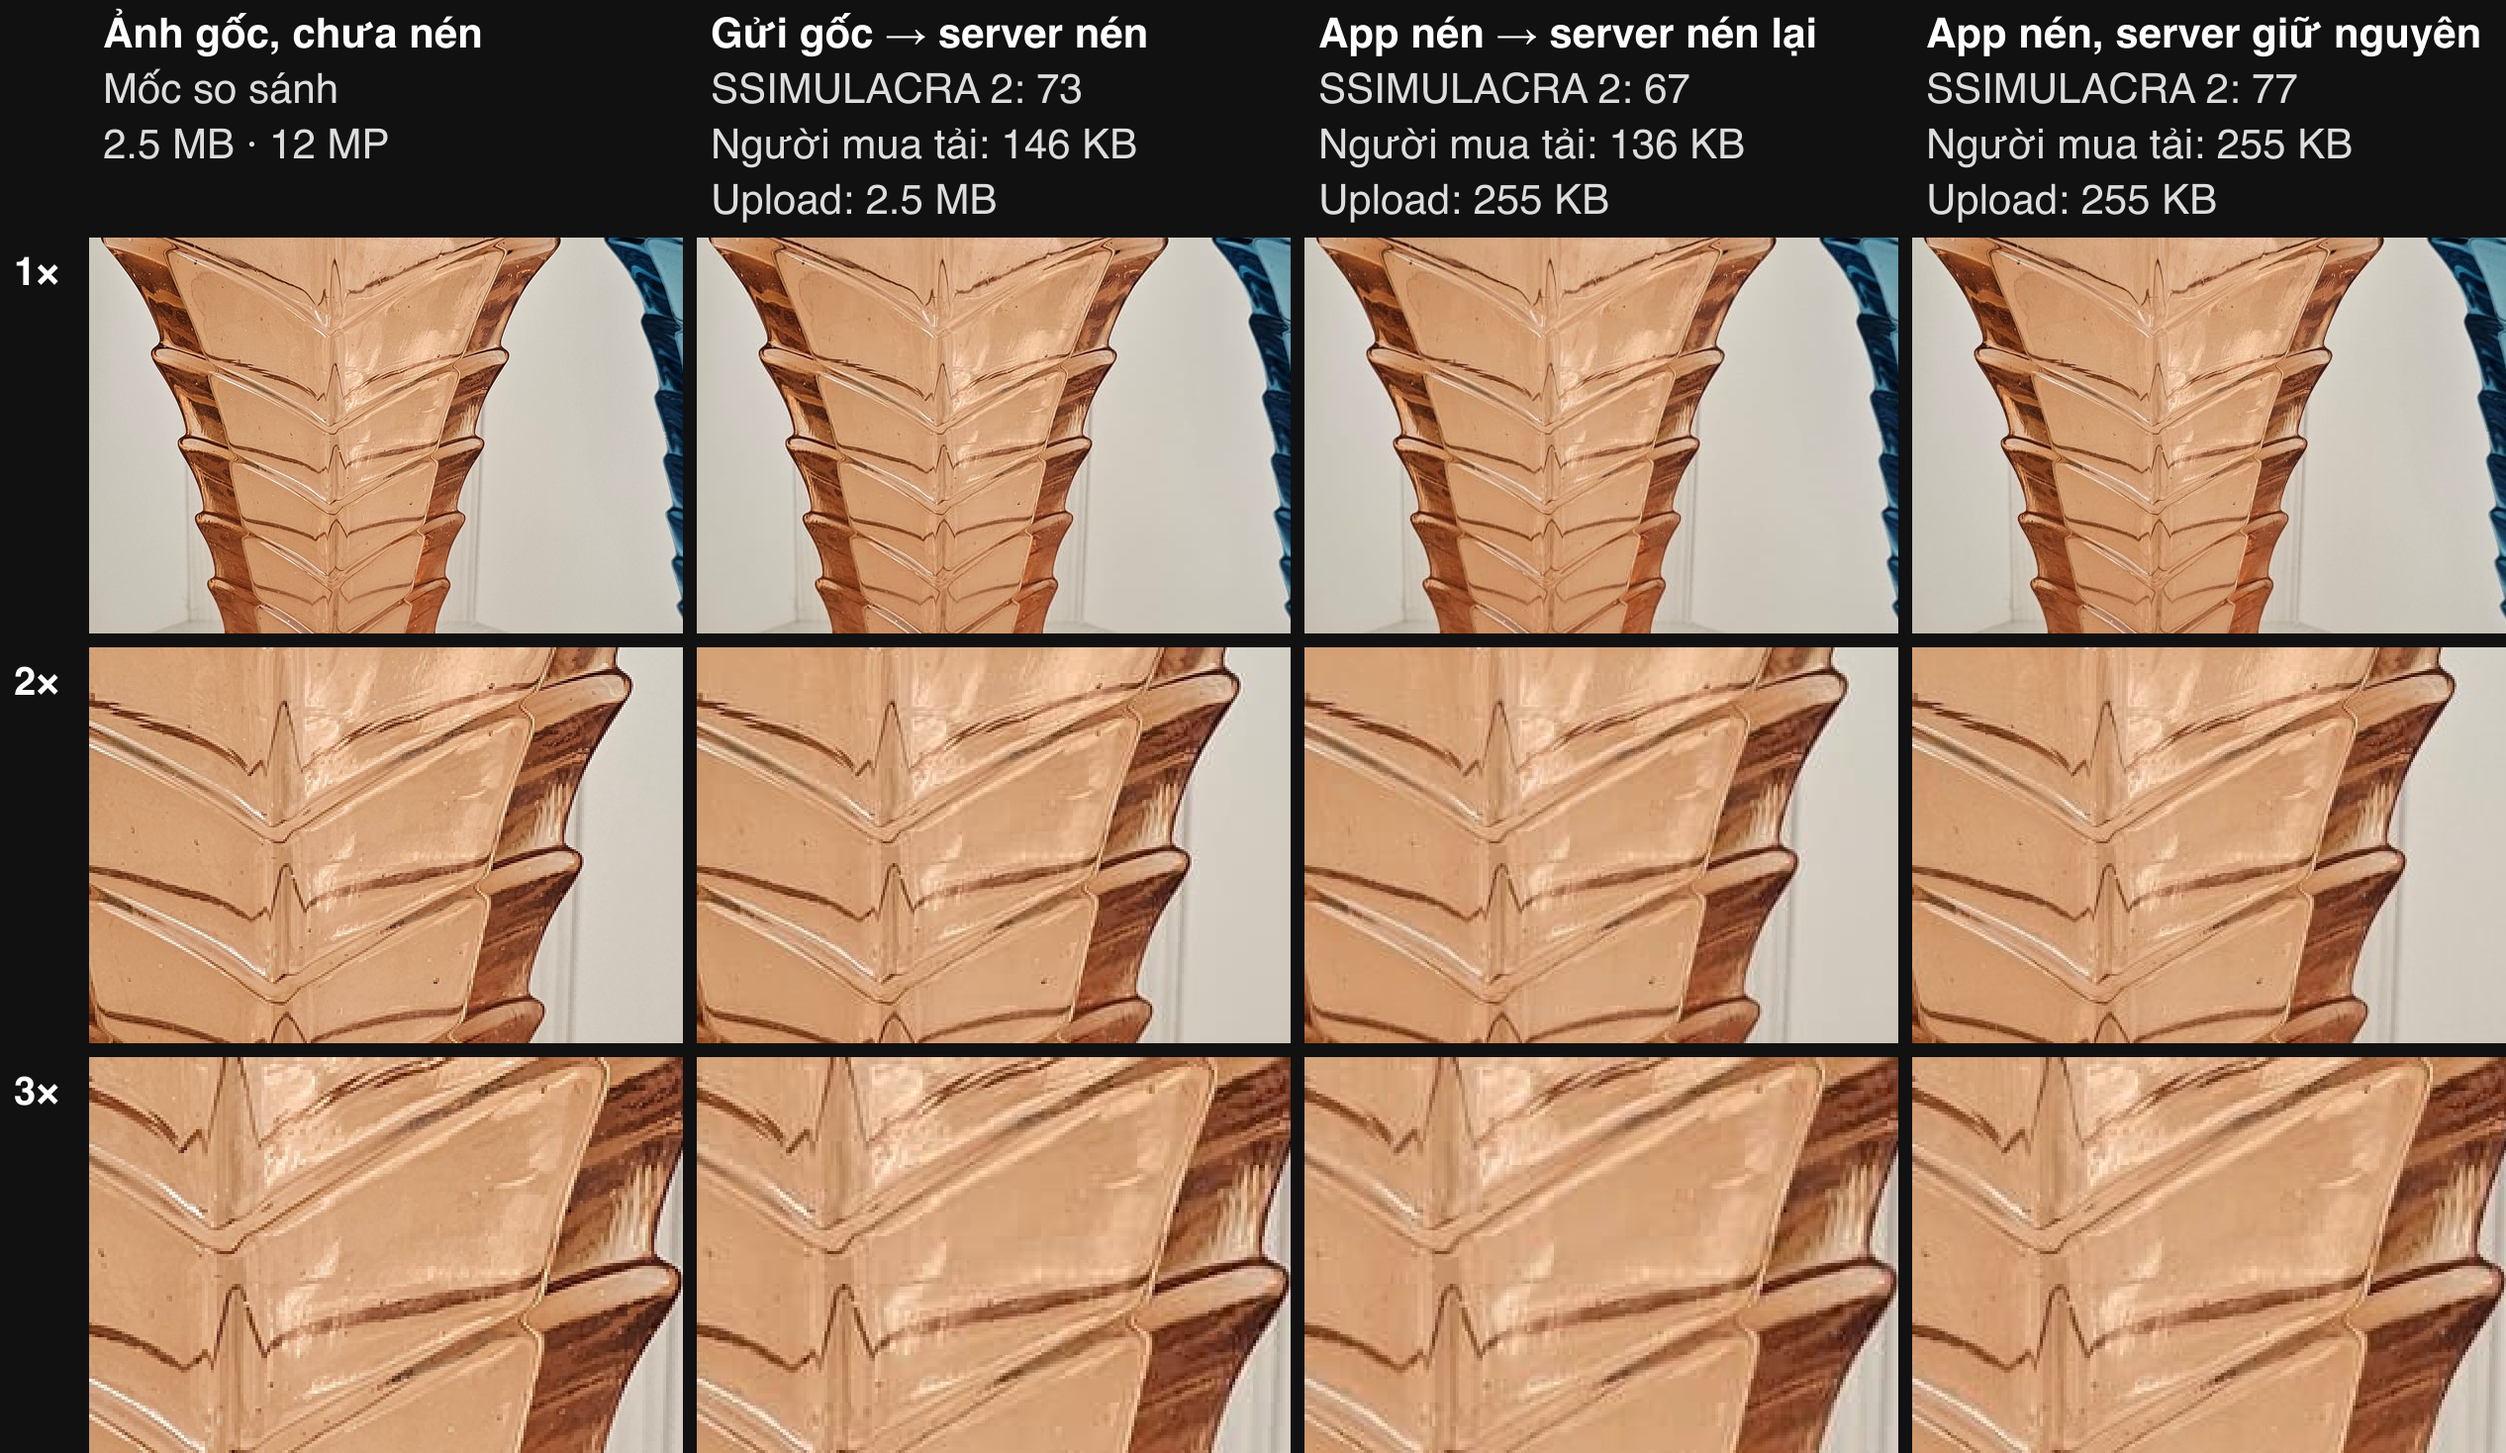
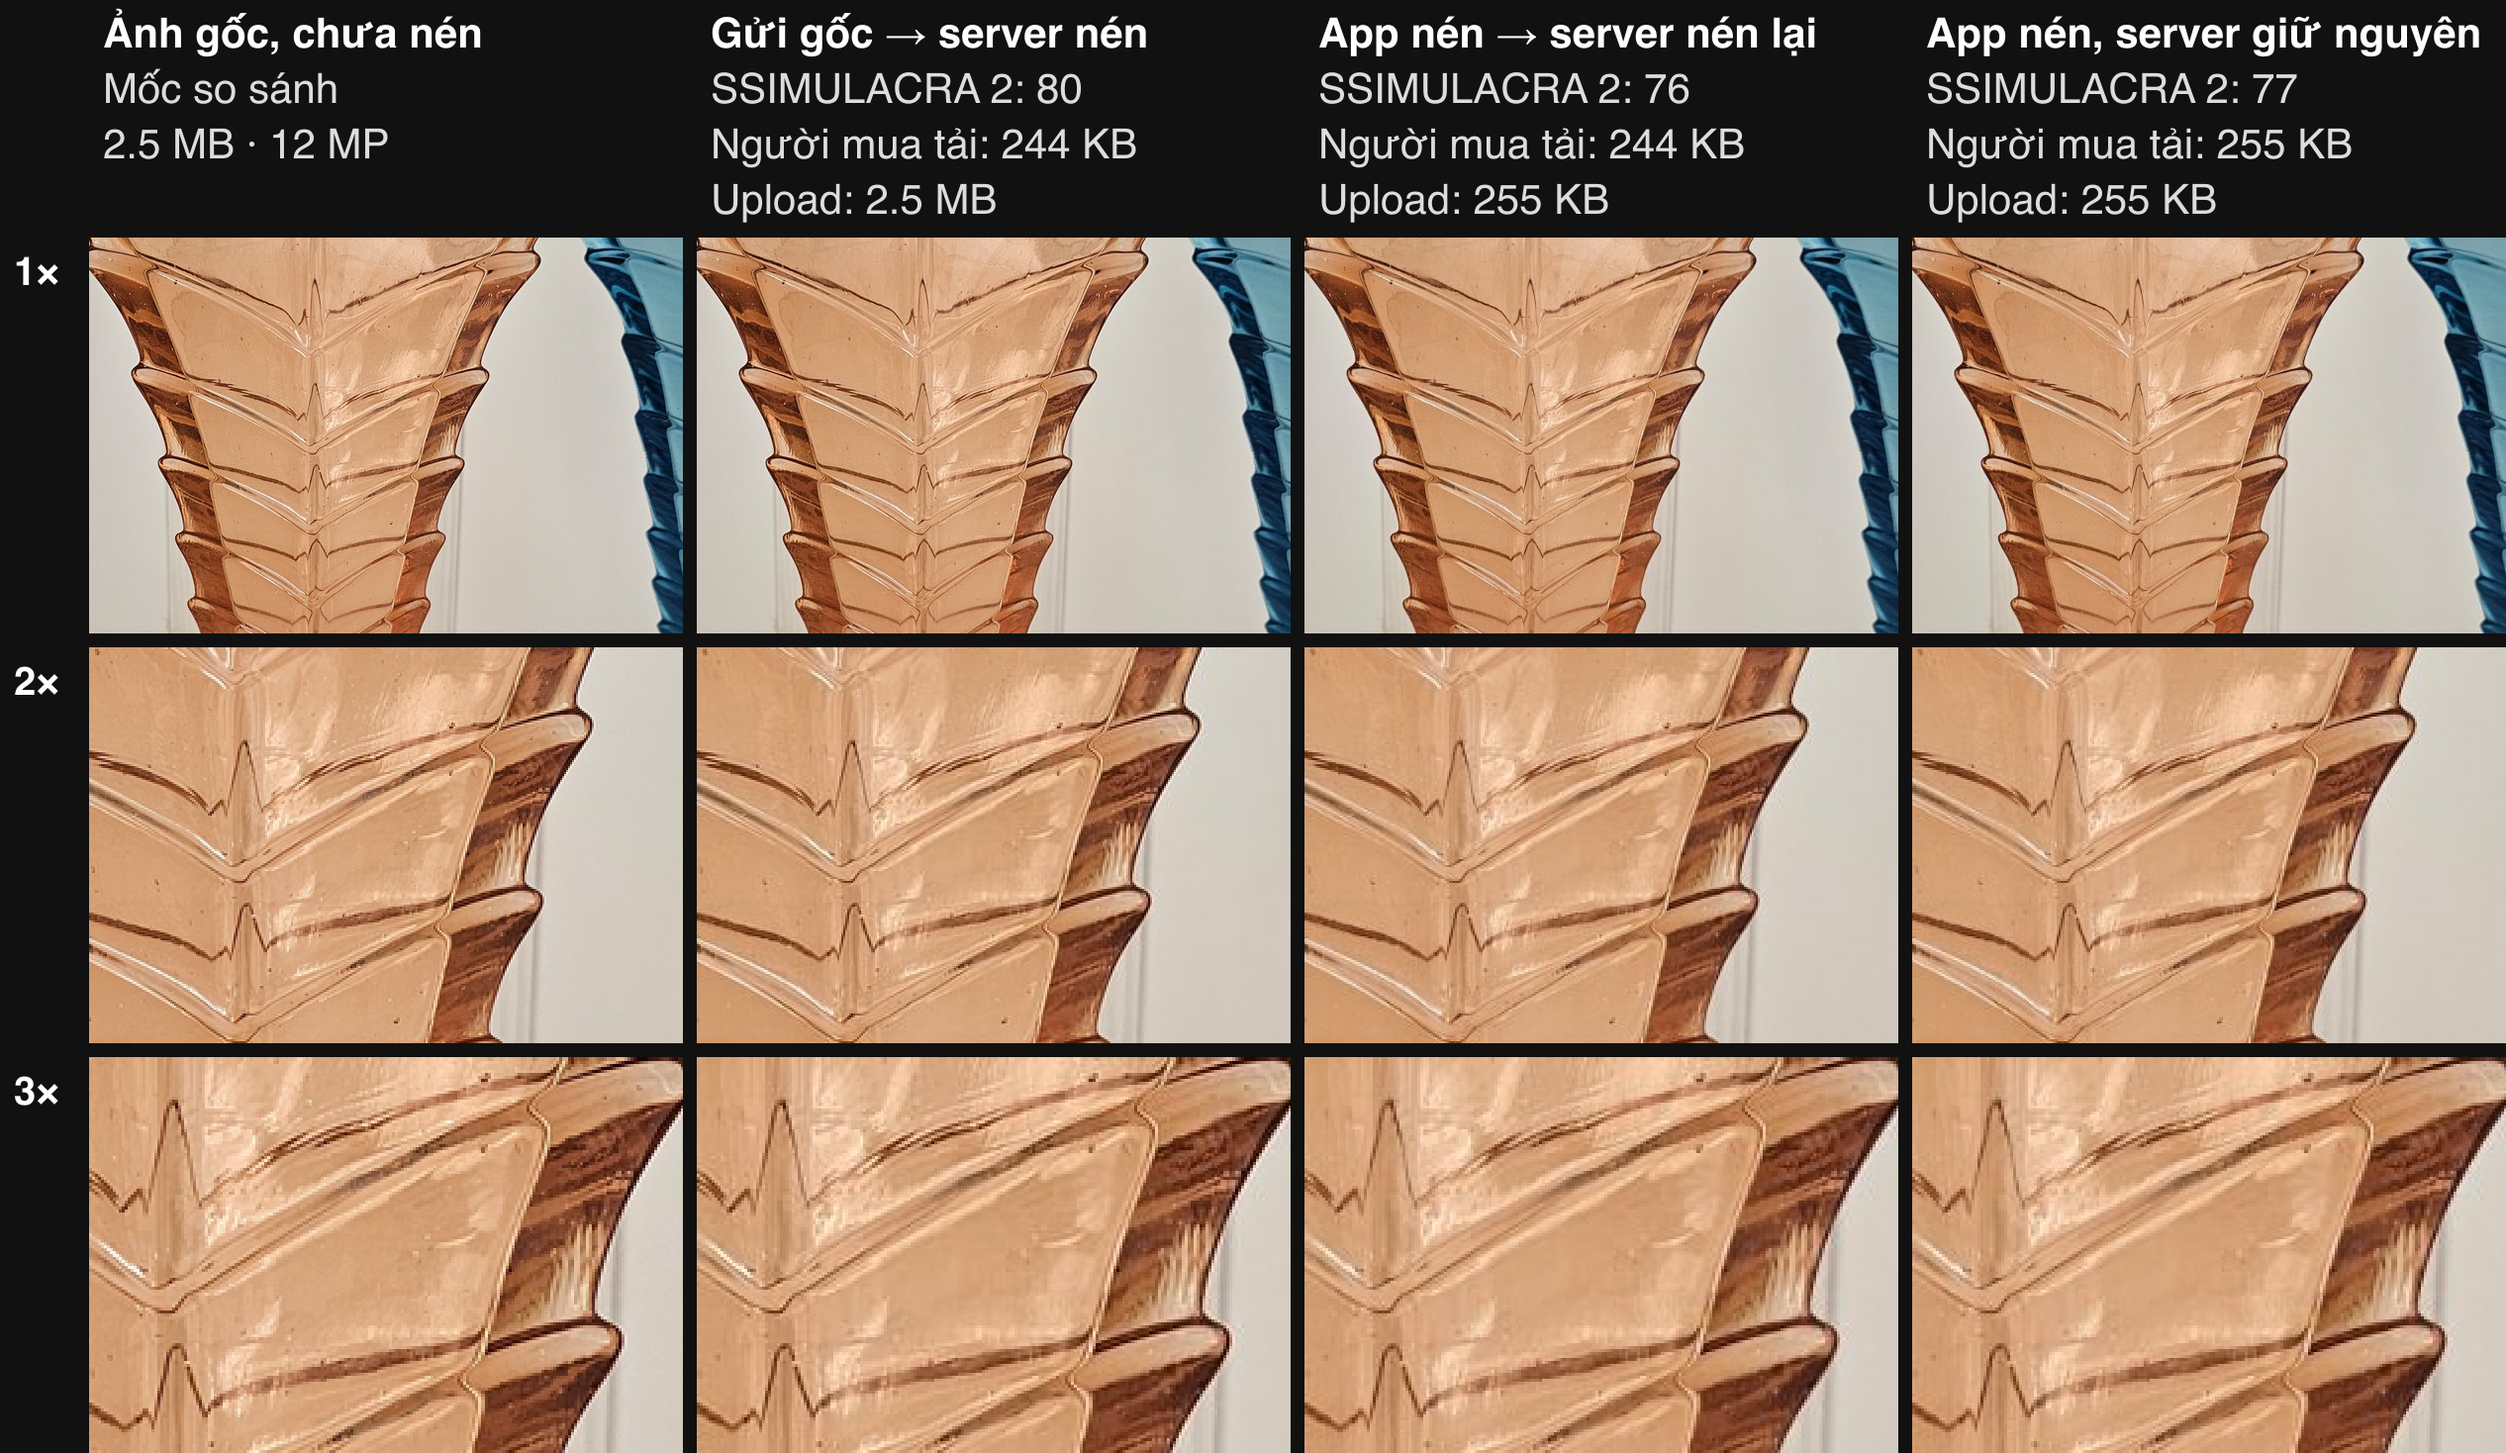
docs: Show the direct upload on the photo slide
The photo slide now lists the presigned-URL upload to S3 under the
client step, and the server step names the background worker and what
it does to each photo.

diff --git a/index.html b/index.html
@@ -1106,12 +1106,17 @@
             <b>Resize 1600 px, JPEG 0.85</b>
             <span>Chạy trong Web Worker, không block main thread.</span>
           </div>
+          <div class="pc-item">
+            <b>Direct Upload</b>
+            <span>Upload trực tiếp lên S3 qua Presigned URL.</span>
+          </div>
         </div>
 
         <div class="stage server-stage">
           <div class="stage-label">Server · Sau khi upload</div>
           <div class="pc-item">
-            <b>Nén lại, tạo thumbnail</b>
+            <b>Background Worker</b>
+            <span>Xóa metadata (EXIF/GPS), nén mozjpeg, generate thumbnail WebP 600px.</span>
           </div>
         </div>
       </div>
@@ -1159,7 +1164,7 @@
 <section class="slide">
   <div class="s-title">Đăng tin: Chất lượng ảnh sau nén</div>
   <div class="body">
-    <div class="figure" style="height: calc(100% - 36px);"><img src="assets/zoom4-and1-vase.png?v=2" alt="So sánh nén ảnh ở 1×, 2×, 3×: gửi gốc, app rồi server nén lại, app nén và server giữ nguyên; kèm SSIM, SSIMULACRA 2 và dung lượng"></div>
+    <div class="figure" style="height: calc(100% - 36px);"><img src="assets/zoom4-and1-vase.png?v=4" alt="So sánh nén ảnh ở 1×, 2×, 3×: gửi gốc, app rồi server nén lại, app nén và server giữ nguyên; kèm SSIM, SSIMULACRA 2 và dung lượng"></div>
     <div class="src">Ảnh Galaxy S23 Ultra (Wikimedia Commons)</div>
   </div>
 </section>
@@ -1167,7 +1172,7 @@
 <section class="slide">
   <div class="s-title">Đăng tin: Chất lượng ảnh sau nén</div>
   <div class="body">
-    <div class="figure" style="height: calc(100% - 36px);"><img src="assets/zoom4-ios3-phone.png?v=2" alt="Ảnh điện thoại có nhãn chữ và mã QR, so sánh nén ở 1×, 2×, 3×: gửi gốc, app rồi server nén lại, app nén và server giữ nguyên"></div>
+    <div class="figure" style="height: calc(100% - 36px);"><img src="assets/zoom4-ios3-phone.png?v=4" alt="Ảnh điện thoại có nhãn chữ và mã QR, so sánh nén ở 1×, 2×, 3×: gửi gốc, app rồi server nén lại, app nén và server giữ nguyên"></div>
     <div class="src">Ảnh iPhone 13 Pro (Wikimedia Commons)</div>
   </div>
 </section>
